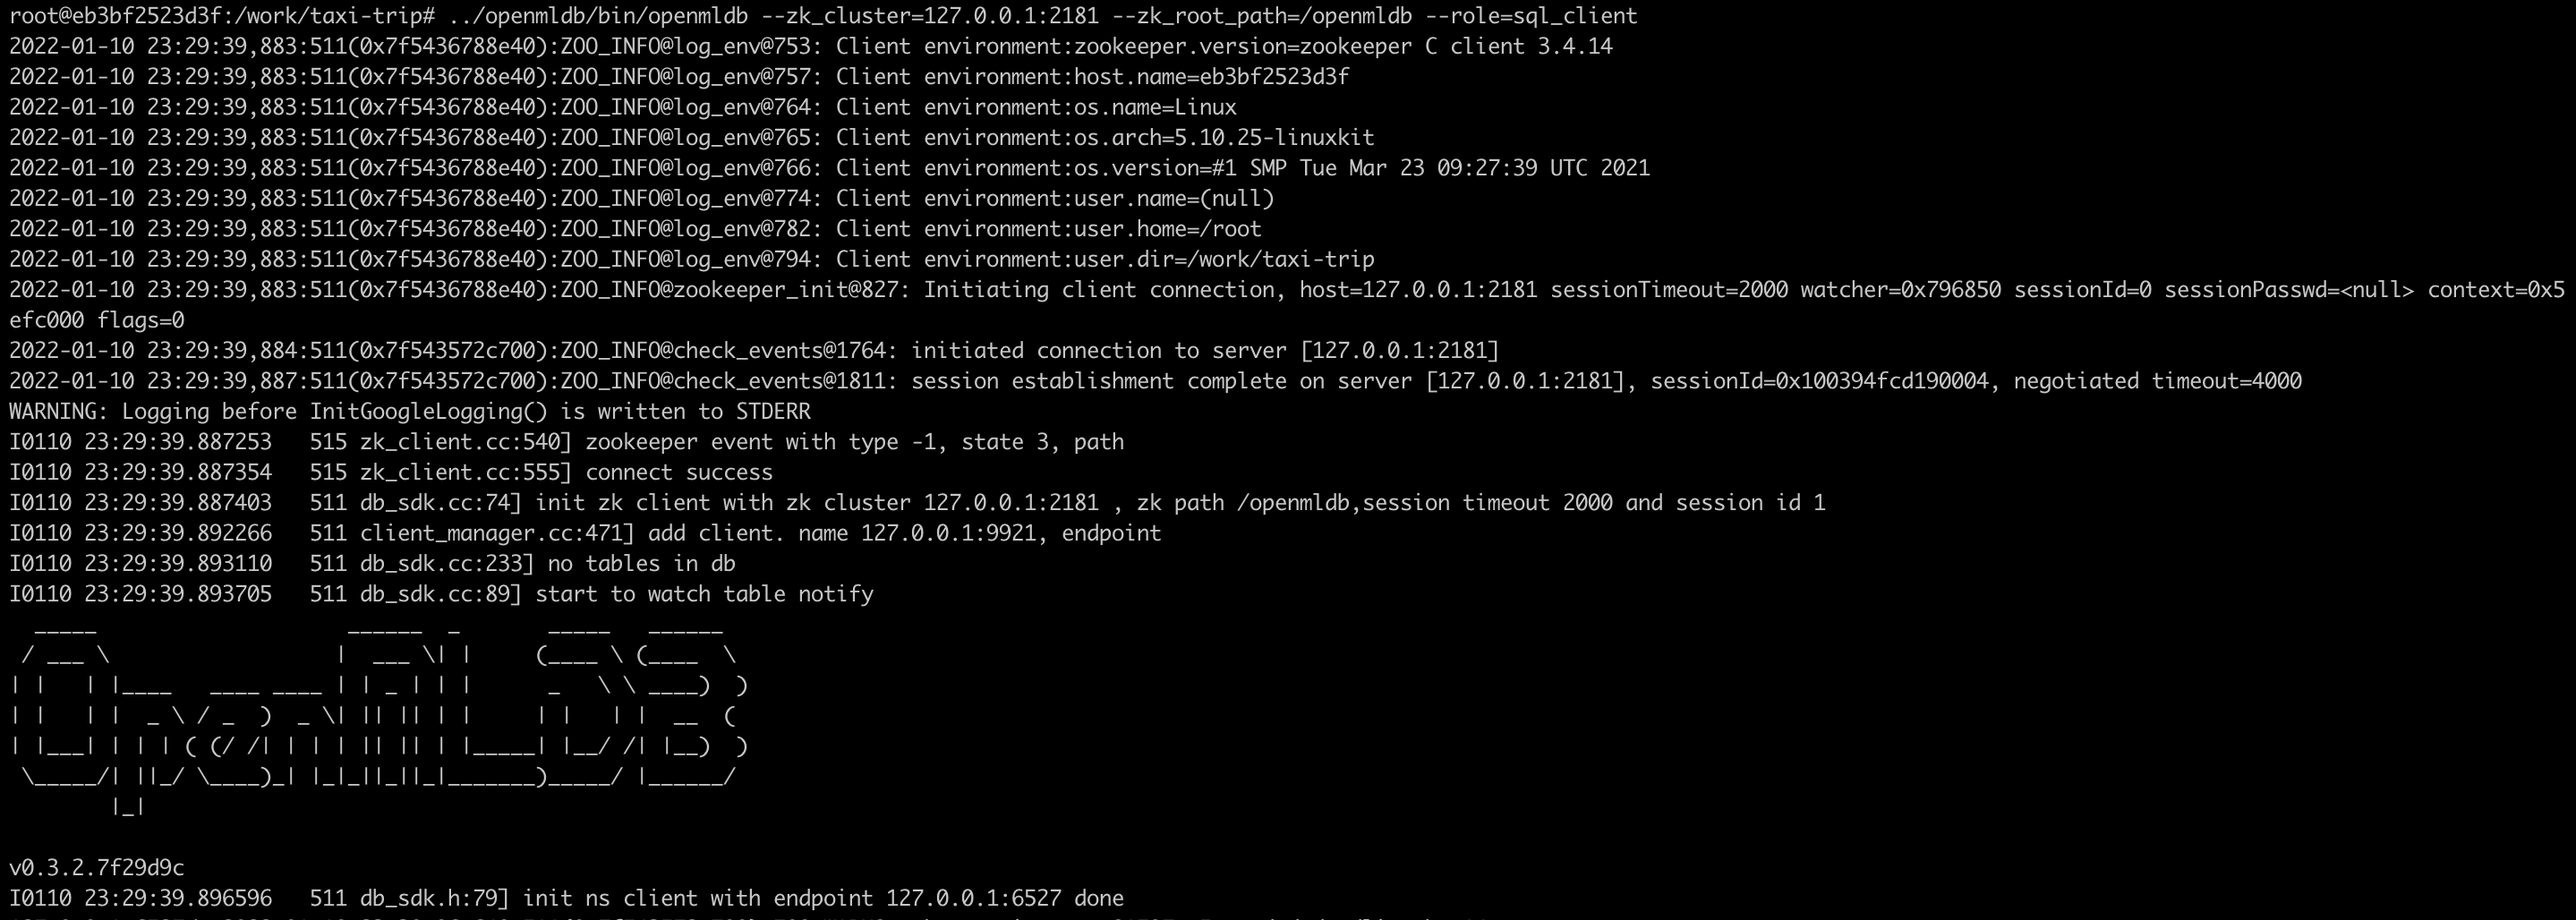
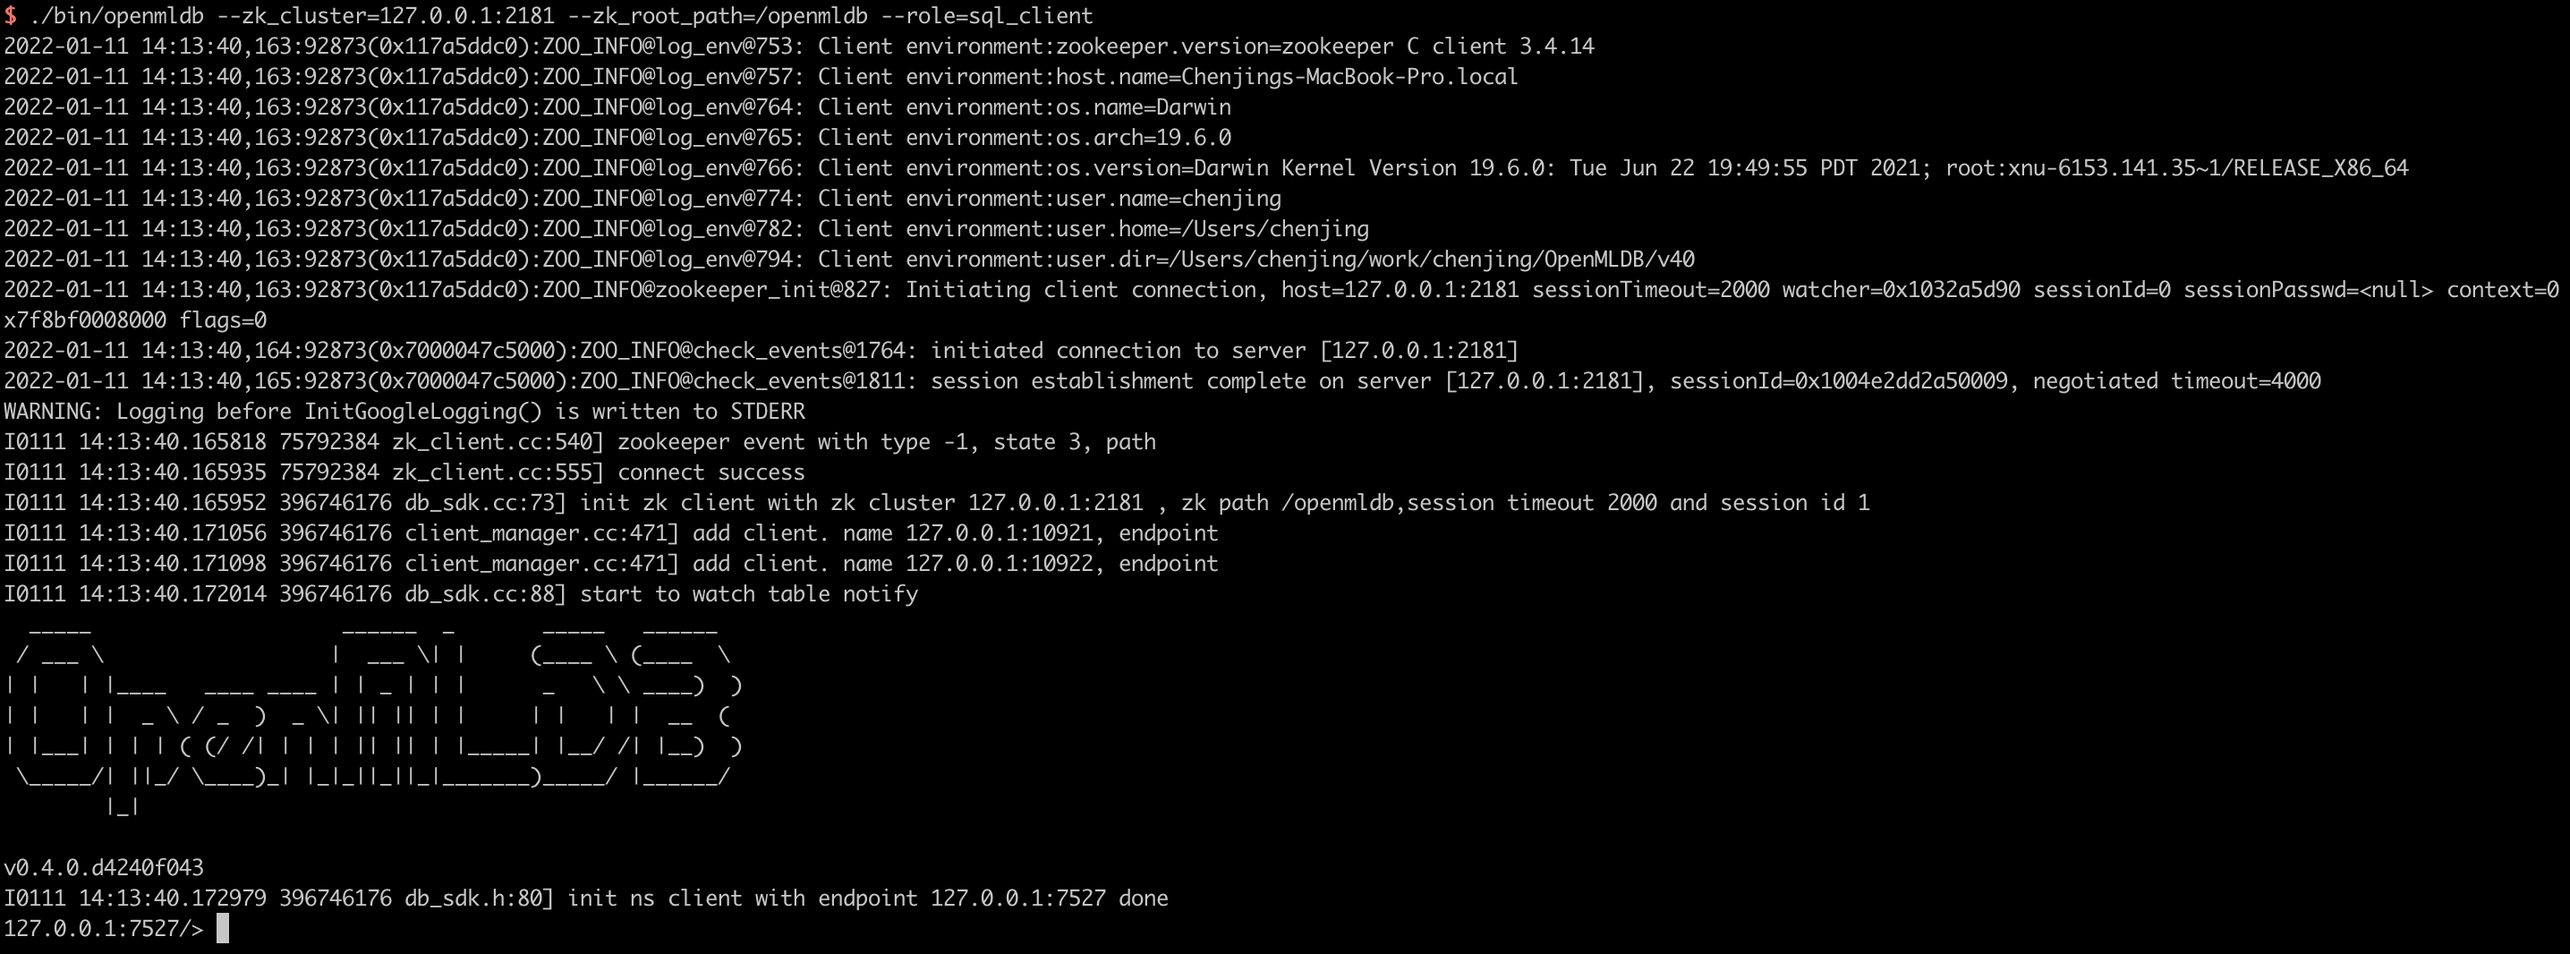
feat: update quick start

diff --git a/quickstart/openmldb_quickstart.md b/quickstart/openmldb_quickstart.md
@@ -1,45 +1,80 @@
 # OpenMLDB 快速上手指南
 
-本教程提供OpenMLDB快速上手指南。通过建立数据库、导入数据、离线特征计算、SQL 方案上线、在线实时特征计算，演示了分布式OpenMLDB和单机OpenMLDB的基本使用流程。通过本指南，用户可以快速熟悉OpenMLDB的基本工作流。
+本教程提供OpenMLDB快速上手指南。通过建立数据库、导入数据、离线特征计算、SQL 方案上线、在线实时特征计算，演示了分布式版OpenMLDB和单机版OpenMLDB的基本使用流程。
 
-## 1. 分布式部署版OpenMLDB 快速上手
+## 1. 分布式版OpenMLDB 快速上手
 
-### 1.1 准备工作
+本教程均基于 OpenMLDB CLI 进行开发和部署，因此首先需要下载样例数据并且启动 OpenMLDB CLI。
 
-> :warning: docker engine版本需求 >= 18.03
+### 1.1 环境和样例数据
 
-本教程均基于 OpenMLDB CLI 进行开发和部署，因此首先需要下载样例数据并且启动 OpenMLDB CLI。我们推荐使用准备好的 docker 镜像来快速体验使用：
+#### 1.1.1 样例数据
 
-1. 拉取镜像（镜像下载大小大约 500 MB，解压后约 1.3 GB）和启动 docker 容器 **@邓龙，镜像地址更新**
+```bash
+> mkdir data
+> curl https://raw.githubusercontent.com/4paradigm/OpenMLDB/main/demo/standalone/data/data.csv --output ./data/data.csv
+```
 
-   ```bash
-   docker run -it 4pdosc/openmldb:0.3.2 bash
-   ```
+#### 1.1.2 下载和启动Zookeeper
 
-   :bulb: **成功启动容器以后，以下命令均在容器内执行。**
+- 下载zookeeper安装包
 
-2. 下载样例数据
+```
+> wget https://archive.apache.org/dist/zookeeper/zookeeper-3.4.14/zookeeper-3.4.14.tar.gz
+> tar -xzvf zookeeper-3.4.14.tar.gz
+> cd zookeeper-3.4.14
+```
 
-   ```bash
-   curl https://raw.githubusercontent.com/4paradigm/OpenMLDB/main/demo/standalone/data/data.csv --output ./data/data.csv
-   ```
+- 配置Zookpeer端口号
 
-3. 启动分布式部署版OpenMLDB并启动控制台客户端：
+```
+> vi conf/zoo.cof
+# The number of milliseconds of each tick
+tickTime=2000
+# The number of ticks that the initial
+# synchronization phase can take
+initLimit=10
+# The number of ticks that can pass between
+# sending a request and getting an acknowledgement
+syncLimit=5
+# the directory where the snapshot is stored.
+# do not use /tmp for storage, /tmp here is just
+# example sakes.
+dataDir=/tmp/rambuild/ut_zookeeper
+# the port at which the clients will connect
+clientPort=2181
+```
 
-   ```bash
-   # 1. initialize the environment for cluster deployed OpenMLDB
-   ./init.sh
-   # 2. Start the OpenMLDB CLI for the cluster deployed OpenMLDB
-   ../openmldb/bin/openmldb --zk_cluster=127.0.0.1:2181 --zk_root_path=/openmldb --role=sql_client
-   ```
+- 启动Zookeeper
 
-以下截图显示了以上 docker 内命令正确执行以及 OpenMLDB CLI 正确启动以后的画面
+```
+./bin/zkServer.sh start
+```
 
-![image-20220110153059789](./images/cli_cluster.png)
+#### 1.1.3 下载和启动分布式OpenMLDB服务
+
+```bash
+> wget https://github.com/4paradigm/OpenMLDB/releases/download/0.3.2/openmldb-0.3.2-linux.tar.gz
+> tar -zxvf openmldb-0.3.2-linux.tar.gz
+> mv openmldb-0.3.2-linux openmldb
+> cd openmldb
+> ./bin/start-all.sh
+```
+
+#### 1.1.4 启动分布式OpenMLDB CLI客户端
+
+```bash
+# Start the OpenMLDB CLI for the cluster deployed OpenMLDB
+> bin/openmldb/bin/openmldb --zk_cluster=127.0.0.1:2181 --zk_root_path=/openmldb --role=sql_client
+```
+
+以下截图显示正确启动分布式OpenMLDB CLI 以后的画面
+
+![image-20220111141358808](/Users/chenjing/work/chenjing/openmldb-docs-zh/quickstart/images/cli_cluster.png)
 
 ### 1.2 使用指南
 
-:bulb: 以下演示的命令如无特别说明，默认均在Cluster OpenMLDB CLI 下执行（CLI 命令以提示符 `>` 开头以作区分）。
+分布式OpenMLDB的工作流程一般包含：建立数据库和表、离线数据准备、离线特征计算、SQL 方案上线、在线数据准备、在线实时特征计算几个阶段。与单机版OpenMLDB不同，分布式版OpenMLDB需要分别管理离线数据和在线数据。:bulb: 以下演示的命令如无特别说明，默认均在分布式部署OpenMLDB CLI 下执行（CLI 命令以提示符 `>` 开头以作区分）。
 
 #### 1.2.1 创建数据库和表
 
@@ -67,13 +102,15 @@
  --- -------------------- ------ ---- ------ ---------------
   #   name                 keys   ts   ttl    ttl_type
  --- -------------------- ------ ---- ------ ---------------
-  1   INDEX_0_1641857521   c1     c6   0min   kAbsoluteTime
+  1   INDEX_0_1641939290   c1     -    0min   kAbsoluteTime
  --- -------------------- ------ ---- ------ ---------------
 ```
 
 #### 1.2.2 离线数据准备数据
 
-首先，请切换到离线执行模式。在该模式下，只会处理离线数据导入/插入以及查询操作。接着在离线模式下，导入之前下载的样例数据（在 [1.1 准备工作](#1.1-准备工作) 中已经下载）作为离线数据，用于离线特征计算。
+首先，请切换到离线执行模式。在该模式下，只会处理离线数据导入/插入以及查询操作。
+
+接着，导入之前下载的样例数据（在 [1.1.1 样例数据](#1.1.1#样例数据) 中已经下载）作为离线数据，用于离线特征计算。
 
 ```sql
 > USE demo_db;
@@ -87,6 +124,7 @@
 > USE demo_db;
 > SET @@execute_mode='offline';
 > SELECT * FROM demo_table1 LIMIT 10;
+> SHOW JOBS;
  ----- ---- ---- ---------- ----------- --------------- ------------
   c1    c2   c3   c4         c5          c6              c7
  ----- ---- ---- ---------- ----------- --------------- ------------
@@ -135,7 +173,7 @@
 
 #### 1.2.5 在线数据准备
 
-首先，请切换到**在线**执行模式。在该模式下，只会处理在线数据导入/插入以及查询操作。接着在在线模式下，导入之前下载的样例数据（在 [1.1 准备工作](#1.1-准备工作) 中已经下载）作为在线数据，用于在线特征计算。
+首先，请切换到**在线**执行模式。在该模式下，只会处理在线数据导入/插入以及查询操作。接着在在线模式下，导入之前下载的样例数据（在 [1.1 样例数据准备](#1.1 样例数据准备) 中已经下载）作为在线数据，用于在线特征计算。
 
 ```sql
 > USE demo_db;
@@ -206,40 +244,41 @@ curl http://127.0.0.1:8080/dbs/demo_db/deployments/demo_data_service -X POST -d'
 
 ## 2. 单机部署版OpenMLDB 快速上手
 
-### 2.1 准备工作
+本教程均基于 OpenMLDB CLI 进行开发和部署，因此首先需要下载样例数据并且启动 OpenMLDB CLI。
 
-本教程均基于 OpenMLDB CLI 进行开发和部署，因此首先需要下载样例数据并且启动 OpenMLDB CLI。我们推荐使用准备好的 docker 镜像来快速体验使用：
+### 2.1环境和数据准备
 
-1. 拉取镜像（镜像下载大小大约 500 MB，解压后约 1.3 GB）和启动 docker 容器
+#### 2.1.1 样例数据
 
-   ```bash
-   docker run -it 4pdosc/openmldb:0.3.2 bash
-   ```
+```bash
+> mkdir data
+> curl https://raw.githubusercontent.com/4paradigm/OpenMLDB/main/demo/standalone/data/data.csv --output ./data/data.csv
+```
 
-   :bulb: **成功启动容器以后，以下命令均在容器内执行。**
+#### 2.1.2 下载和启动单机版OpenMLDB服务
 
-2. 下载样例数据
+```bash
+> wget https://github.com/4paradigm/OpenMLDB/releases/download/0.3.2/openmldb-0.3.2-linux.tar.gz
+> tar -zxvf openmldb-0.3.2-linux.tar.gz
+> mv openmldb-0.3.2-linux openmldb
+> cd openmldb
+> ./bin/start-standalone.sh
+```
 
-   ```bash
-   curl https://raw.githubusercontent.com/4paradigm/OpenMLDB/main/demo/standalone/data/data.csv --output ./data/data.csv
-   ```
+#### 2.1.3 启动单机版OpenMLDB CLI客户端
 
-3. 启动 OpenMLDB 服务和 CLI
-
-   ```bash
-   # 1. initialize the environment
-   ./init.sh standalone
-   # 2. Start the OpenMLDB CLI for the standalone mode
-   ../openmldb/bin/openmldb --host 127.0.0.1 --port 6527
-   ```
+```bash
+# Start the OpenMLDB CLI for the cluster deployed OpenMLDB
+> bin/openmldb --host 127.0.0.1 --port 6527
+```
 
 以下截图显示了以上 docker 内命令正确执行以及 OpenMLDB CLI 正确启动以后的画面
 
-![image-20211209133608276](./images/cli.png)
+![image-20220111142406534](./images/cli.png)
 
 ### 2.2 使用指南
 
-:bulb: 以下演示的命令如无特别说明，默认均在 OpenMLDB CLI 下执行（CLI 命令以提示符 `>` 开头以作区分）。
+单机版OpenMLDB的工作流程一般包含：建立数据库和表、数据准备、离线特征计算、SQL 方案上线、在线实时特征计算几个阶段。与分布式版OpenMLDB不同，单机版本只需要管理一份数据用于离线和在线特征计算。:bulb: 以下演示的命令如无特别说明，默认均在单机版OpenMLDB CLI 下执行（CLI 命令以提示符 `>` 开头以作区分）。
 
 #### 2.2.1 创建数据库和表
 
@@ -251,7 +290,7 @@ curl http://127.0.0.1:8080/dbs/demo_db/deployments/demo_data_service -X POST -d'
 
 #### 2.2.2 导入数据
 
- 导入之前下载的样例数据（在 [1. 准备工作](#1-准备工作) 中已经下载）作为训练数据，用于离线和在线特征计算。
+ 导入之前下载的样例数据（在 [2.1.1 样例数据](#2.1.1-样例数据) 中已经下载）作为训练数据，用于离线和在线特征计算。
 
 ```sql
 > LOAD DATA INFILE 'data/data.csv' INTO TABLE demo_table1;
@@ -338,13 +377,3 @@ curl http://127.0.0.1:8080/dbs/demo_db/deployments/demo_data_service -X POST -d'
 {"code":0,"msg":"ok","data":{"data":[["aaa",11,22]],"common_cols_data":[]}}
 ```
 
-
-
-## FQA： 
-
-1. 分布式和单机可以同时部署在一个服务器上吗？
-2. API SERVER的访问怎么区分分布式和单机版本？
-3. 分布式部署和单机部署版本的OpenMLDB在使用过程中最大的区别是什么？
-   1. 单机部署和分布式部署下的OpenMLDB启动方式不同。
-   2. 单机部署的OpenMLDB离线和上线使用同一套数据。
-   3. 分布式部署的OpenMLDB需要分别管理离线数据和在线数据。具体来说，首先要在离线执行模式下，准备离线数据。完成特征调研和训练后，上线SQL特征方案。接着，需要切换到在线执行模式，准备在线数据。

diff --git a/quickstart/python_sdk.md b/quickstart/python_sdk.md
@@ -51,7 +51,7 @@ except Exception as e:
 
 ### 2.4 插入数据到表中
 
-使用`connection.execute()`接口执行SQL的插入语句，可以向表中插入数据：
+使用`connection.execute(ddl)`接口执行SQL的插入语句，可以向表中插入数据：
 
 ```python
 try:
@@ -60,7 +60,7 @@ except Exception as e:
     print(e)
 ```
 
-使用placeholder的方式执行SQL插入语句：
+使用`connection.execute(ddl, data)`接口执行带planceholder的SQL的插入语句，可以动态指定插入数据：
 
 ```python
 try:
@@ -72,7 +72,7 @@ except Exception as e:
 
 ### 2.5 执行SQL批式查询
 
-使用`connection.execute()`接口执行SQL批式查询语句:
+使用`connection.execute(sql)`接口执行SQL批式查询语句:
 
 ```python
 try:
@@ -86,7 +86,7 @@ except Exception as e:
 
 ### 2.6 执行SQL请求式查询
 
-请求式查询，可以把输入数据放到execute的第二个参数中
+使用`connection.execute(sql, request)`接口执行SQL批式查询语句:请求式查询，可以把输入数据放到execute的第二个参数中
 
 ```python
 try:
@@ -96,7 +96,7 @@ except Exception as e:
 ```
 ### 2.7 删除表
 
-使用`connection.execute()`接口删除一张表：
+使用`connection.execute(ddl)`接口删除一张表：
 
 ```python
 try:
@@ -107,7 +107,7 @@ except Exception as e:
 
 ### 2.8 删除数据库
 
-使用`connection.execute()`接口删除数据库：
+使用`connection.execute(ddl)`接口删除数据库：
 
 ```python
 try:

diff --git a/quickstart/java_sdk.md b/quickstart/java_sdk.md
@@ -4,7 +4,7 @@
 
 配置maven pom
 
-```
+```xml
 <dependency>
     <groupId>com.4paradigm.openmldb</groupId>
     <artifactId>openmldb-jdbc</artifactId>
